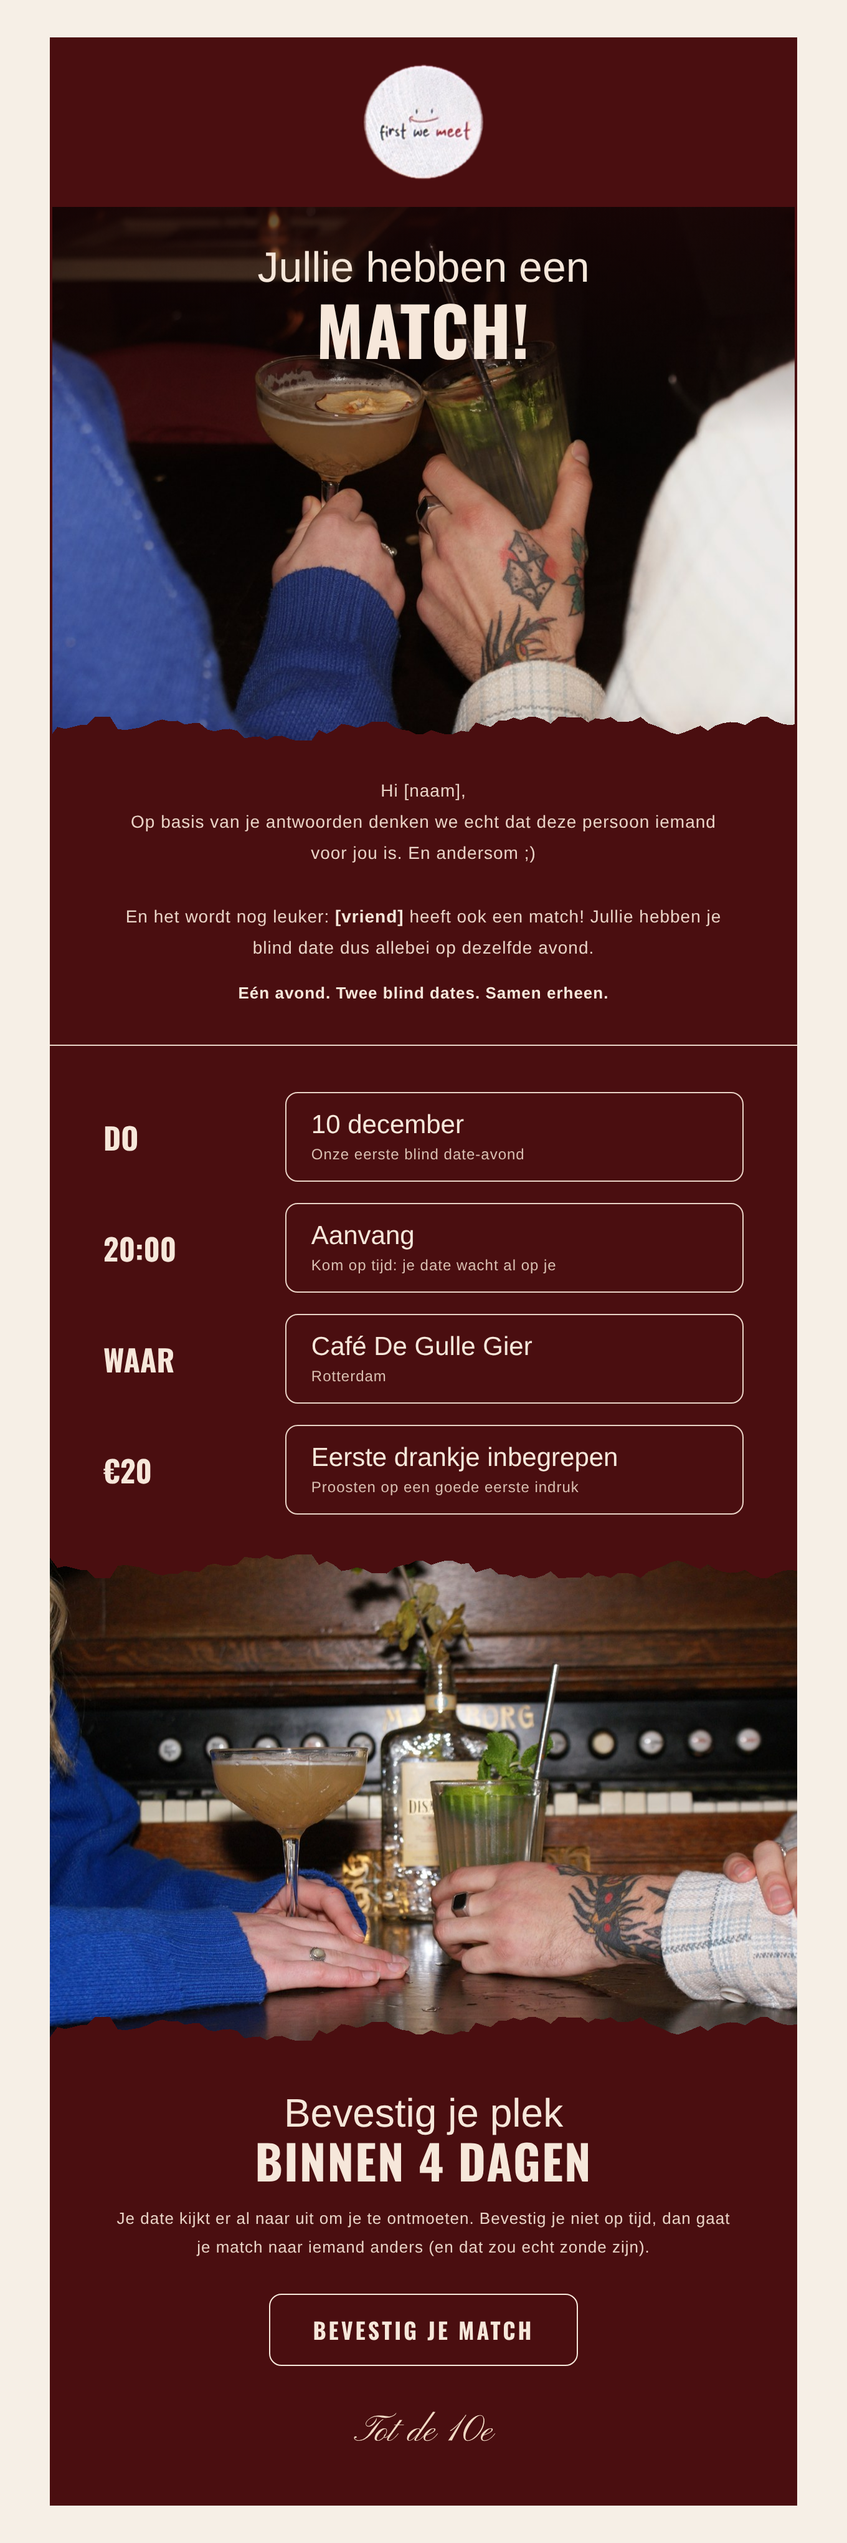
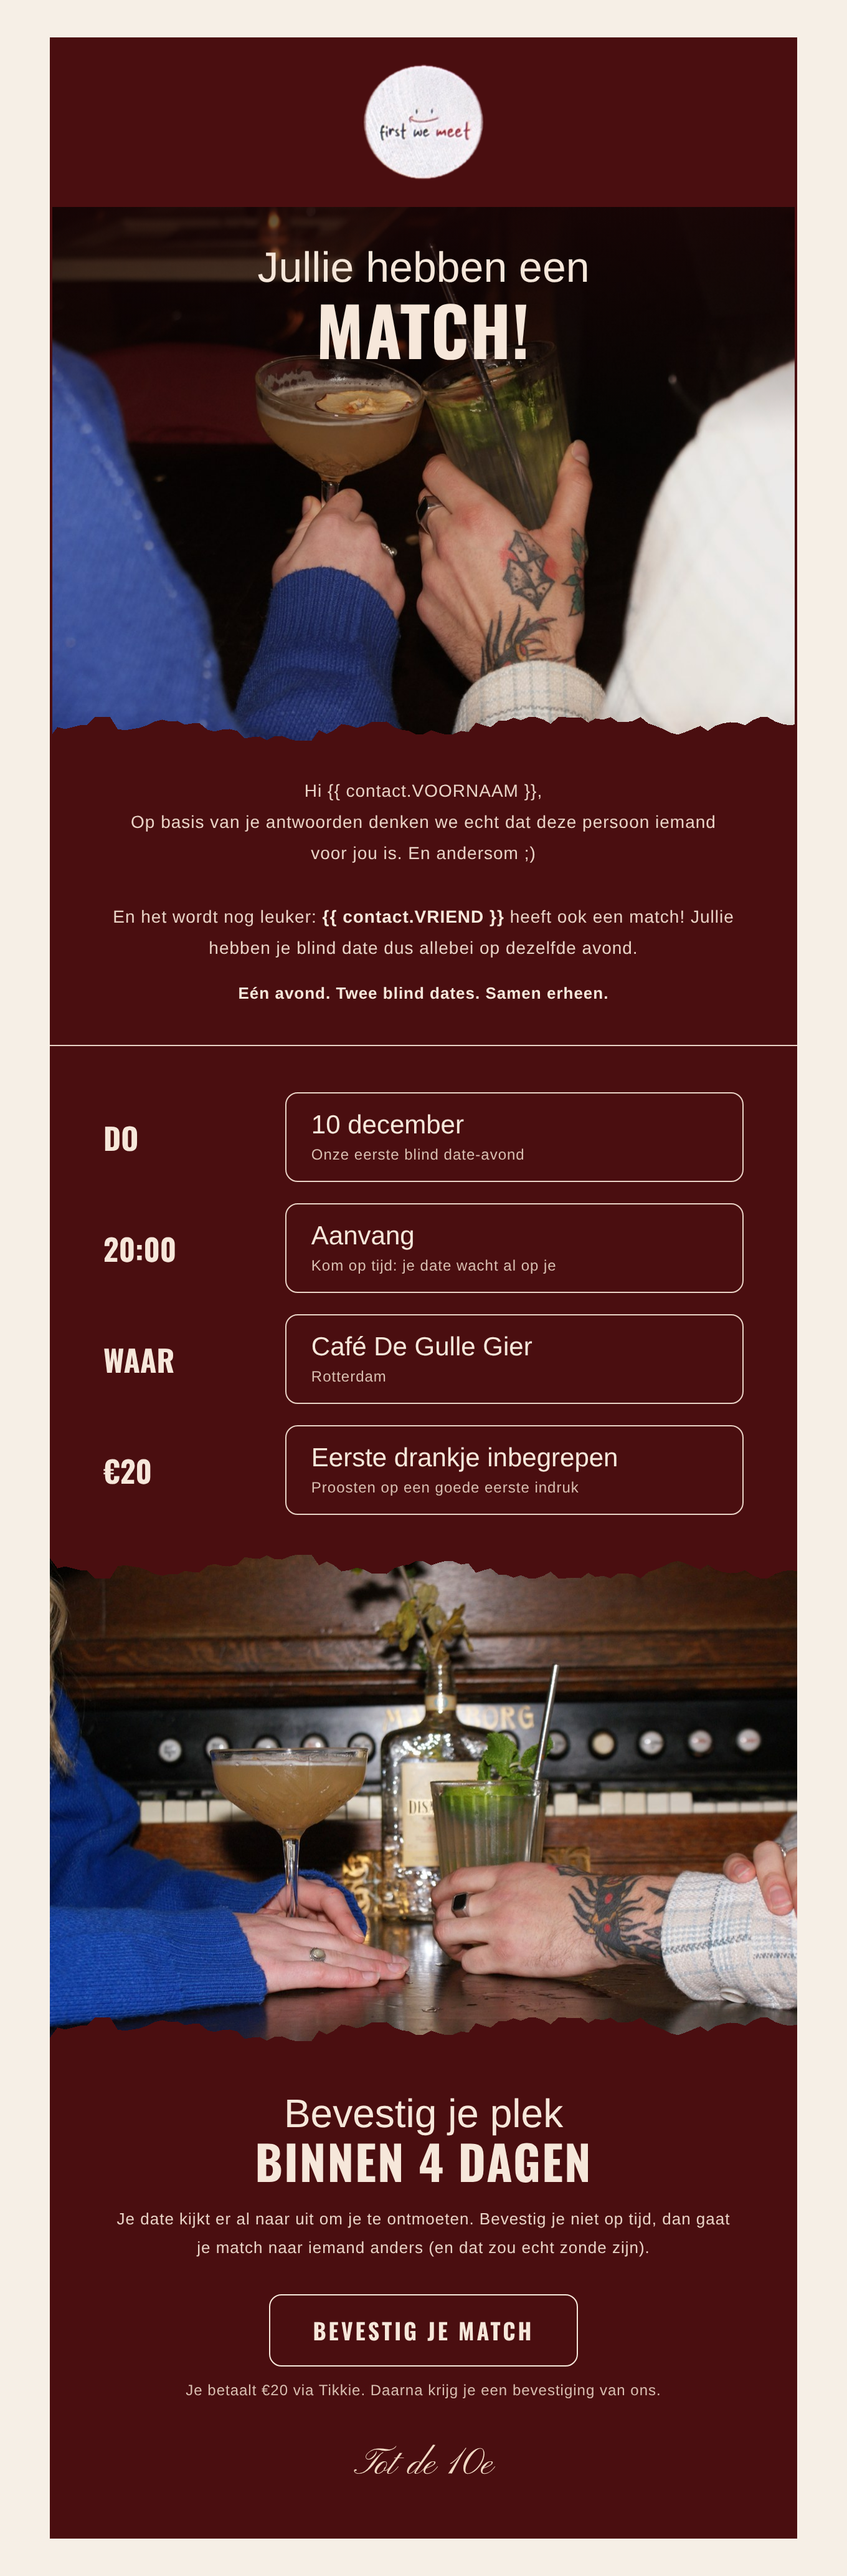
Match emails: Tikkie link per contact, confirmation email, Brevo setup guide
Claude-Session: https://claude.ai/code/session_015pbpmfourf5XfLzACnZpS7

diff --git a/marketing/mails/match-bordeaux/bevestiging-mail.html b/marketing/mails/match-bordeaux/bevestiging-mail.html
@@ -1,0 +1,27 @@
+<!doctype html><html lang="nl"><head><meta charset="utf-8"><meta name="viewport" content="width=device-width,initial-scale=1"><title>Je plek staat vast</title><link href="https://fonts.googleapis.com/css2?family=Inter+Tight:wght@500;800&family=Pinyon+Script&family=Oswald:wght@700&display=swap" rel="stylesheet"></head>
+<body style="margin:0;padding:0;background:#f6efe6;"><div style="display:none;max-height:0;overflow:hidden;">Betaling ontvangen. Tot donderdag 10 december!</div>
+<table role="presentation" width="100%" cellpadding="0" cellspacing="0" style="background:#f6efe6;"><tr><td align="center" style="padding:30px 10px;">
+<table role="presentation" width="600" cellpadding="0" cellspacing="0" style="max-width:600px;width:100%;"><tr><td align="center" style="background:#4a0e10;padding:20px 0 18px;"><img src="logo.png" width="96" height="96" alt="First We Meet" style="display:block;margin:0 auto;border:0;border-radius:50%;"></td></tr>
+<tr><td style="background:#4a0e10;">
+ <table width="100%" role="presentation"><tr><td height="402" valign="top" background="cocktails-heel.jpg" style="background:linear-gradient(180deg,rgba(30,6,7,.7) 0%,rgba(30,6,7,0) 42%),url('cocktails-heel.jpg') center/100% 100% no-repeat;padding:30px 0 0;text-align:center;">
+  <div style="font-family:Helvetica,Arial,sans-serif;font-size:34px;color:#f6e7da;">Je plek staat</div>
+  <div style="font-family:Oswald,'Arial Narrow',Arial,sans-serif;font-weight:700;font-size:54px;letter-spacing:1px;color:#f6e7da;line-height:1;margin-top:2px;">VAST!</div></td></tr></table>
+ <img src="torn.png" width="600" alt="" style="display:block;width:100%;margin-top:-30px;position:relative;">
+</td></tr>
+<tr><td style="background:#4a0e10;padding:22px 50px 34px;text-align:center;">
+ <div style="font-family:Helvetica,Arial,sans-serif;font-size:14px;letter-spacing:.5px;line-height:1.8;color:#e9d3c6;">Hi {{ contact.VOORNAAM }},<br>We hebben je betaling ontvangen. Je bent erbij!<br>Je date weet nog steeds niet wie jij bent, en dat houden we lekker zo.</div>
+ <div style="font-family:Helvetica,Arial,sans-serif;font-size:13px;letter-spacing:.5px;font-weight:bold;color:#f6e7da;margin-top:16px;">Zet hem alvast in je agenda.</div>
+</td></tr>
+<tr><td style="background:#4a0e10;border-top:1.5px solid #e9d3c6;padding:34px 40px 10px;">
+ <table width="100%" role="presentation">
+ <tr><td width="28%" style="font-family:Oswald,'Arial Narrow',Arial,sans-serif;font-weight:700;font-size:24px;color:#f6e7da;padding-bottom:14px;">DO</td><td style="padding-bottom:14px;"><div style="border:1.5px solid #e9d3c6;border-radius:10px;padding:14px 20px;"><div style="font-family:Helvetica,Arial,sans-serif;font-size:21px;color:#f6e7da;">10 december</div><div style="font-family:Helvetica,Arial,sans-serif;font-size:12px;letter-spacing:.5px;color:#d9bfb1;margin-top:4px;">Onze eerste blind date-avond</div></div></td></tr><tr><td width="28%" style="font-family:Oswald,'Arial Narrow',Arial,sans-serif;font-weight:700;font-size:24px;color:#f6e7da;padding-bottom:14px;">20:00</td><td style="padding-bottom:14px;"><div style="border:1.5px solid #e9d3c6;border-radius:10px;padding:14px 20px;"><div style="font-family:Helvetica,Arial,sans-serif;font-size:21px;color:#f6e7da;">Aanvang</div><div style="font-family:Helvetica,Arial,sans-serif;font-size:12px;letter-spacing:.5px;color:#d9bfb1;margin-top:4px;">Kom op tijd: je date wacht op je</div></div></td></tr><tr><td width="28%" style="font-family:Oswald,'Arial Narrow',Arial,sans-serif;font-weight:700;font-size:24px;color:#f6e7da;padding-bottom:14px;">WAAR</td><td style="padding-bottom:14px;"><div style="border:1.5px solid #e9d3c6;border-radius:10px;padding:14px 20px;"><div style="font-family:Helvetica,Arial,sans-serif;font-size:21px;color:#f6e7da;">Café De Gulle Gier</div><div style="font-family:Helvetica,Arial,sans-serif;font-size:12px;letter-spacing:.5px;color:#d9bfb1;margin-top:4px;">Rotterdam</div></div></td></tr><tr><td width="28%" style="font-family:Oswald,'Arial Narrow',Arial,sans-serif;font-weight:700;font-size:24px;color:#f6e7da;padding-bottom:14px;">€20</td><td style="padding-bottom:14px;"><div style="border:1.5px solid #e9d3c6;border-radius:10px;padding:14px 20px;"><div style="font-family:Helvetica,Arial,sans-serif;font-size:21px;color:#f6e7da;">Eerste drankje inbegrepen</div><div style="font-family:Helvetica,Arial,sans-serif;font-size:12px;letter-spacing:.5px;color:#d9bfb1;margin-top:4px;">Proosten op een goede eerste indruk</div></div></td></tr>
+ </table></td></tr>
+<tr><td style="background:#4a0e10;padding:0;"><img src="piano.jpg" width="600" alt="Twee cocktails op de piano" style="display:block;width:100%;">
+ <img src="torn-top.png" width="600" alt="" style="display:block;width:100%;margin-top:-402px;position:relative;">
+ <img src="torn.png" width="600" alt="" style="display:block;width:100%;margin-top:342px;position:relative;"></td></tr>
+<tr><td style="background:#4a0e10;padding:34px 50px 40px;text-align:center;">
+ <div style="font-family:Helvetica,Arial,sans-serif;font-size:32px;color:#f6e7da;">Tot snel bij</div>
+ <div style="font-family:Oswald,'Arial Narrow',Arial,sans-serif;font-weight:700;font-size:38px;letter-spacing:1px;color:#f6e7da;line-height:1.05;">DE GULLE GIER</div>
+ <div style="font-family:Helvetica,Arial,sans-serif;font-size:13px;letter-spacing:.5px;line-height:1.8;color:#e9d3c6;margin-top:14px;">Meld je bij binnenkomst bij ons, dan brengen we je naar je tafel. Je eerste drankje staat klaar.<br><br>Vragen of kun je toch niet? Antwoord gewoon op deze mail.</div>
+ <div style="font-family:'Pinyon Script',Georgia,serif;font-size:30px;color:#f1d9c4;margin-top:34px;">Tot de 10e</div>
+</td></tr></table></td></tr></table></body></html>

diff --git a/marketing/mails/match-bordeaux/match-mail-samen.html b/marketing/mails/match-bordeaux/match-mail-samen.html
@@ -1,8 +1,5 @@
-<!doctype html><html lang="nl"><head><meta charset="utf-8"><meta name="viewport" content="width=device-width,initial-scale=1"><title>Het is een match</title><link href="https://fonts.googleapis.com/css2?family=Inter+Tight:wght@500;800&family=Pinyon+Script&family=Oswald:wght@700&display=swap" rel="stylesheet"><style>@font-face{font-family:'Inter Tight';src:url(file:///tmp/claude-0/-home-user-firstwe-meet/dffc676d-e549-59db-af63-879ca39c5ba4/scratchpad/mail/insp/node_modules/@fontsource/inter-tight/files/inter-tight-latin-800-normal.woff2);font-weight:800}
-@font-face{font-family:'Inter Tight';src:url(file:///tmp/claude-0/-home-user-firstwe-meet/dffc676d-e549-59db-af63-879ca39c5ba4/scratchpad/mail/insp/node_modules/@fontsource/inter-tight/files/inter-tight-latin-500-normal.woff2);font-weight:500}
-@font-face{font-family:'Pinyon Script';src:url(file:///tmp/claude-0/-home-user-firstwe-meet/dffc676d-e549-59db-af63-879ca39c5ba4/scratchpad/mail/insp/node_modules/@fontsource/pinyon-script/files/pinyon-script-latin-400-normal.woff2)}
-@font-face{font-family:Oswald;src:url(file:///tmp/claude-0/-home-user-firstwe-meet/dffc676d-e549-59db-af63-879ca39c5ba4/scratchpad/mail/insp/node_modules/@fontsource/oswald/files/oswald-latin-700-normal.woff2);font-weight:700}</style></head>
-<body style="margin:0;padding:0;background:#f6efe6;"><div style="display:none;max-height:0;overflow:hidden;">Jij én [vriend] hebben een match.</div>
+<!doctype html><html lang="nl"><head><meta charset="utf-8"><meta name="viewport" content="width=device-width,initial-scale=1"><title>Het is een match</title><link href="https://fonts.googleapis.com/css2?family=Inter+Tight:wght@500;800&family=Pinyon+Script&family=Oswald:wght@700&display=swap" rel="stylesheet"></head>
+<body style="margin:0;padding:0;background:#f6efe6;"><div style="display:none;max-height:0;overflow:hidden;">Jij én {{ contact.VRIEND }} hebben een match.</div>
 <table role="presentation" width="100%" cellpadding="0" cellspacing="0" style="background:#f6efe6;"><tr><td align="center" style="padding:30px 10px;">
 <table role="presentation" width="600" cellpadding="0" cellspacing="0" style="max-width:600px;width:100%;"><tr><td align="center" style="background:#4a0e10;padding:20px 0 18px;"><img src="logo.png" width="96" height="96" alt="First We Meet" style="display:block;margin:0 auto;border:0;border-radius:50%;"></td></tr>
 <tr><td style="background:#4a0e10;">
@@ -12,7 +9,7 @@
  <img src="torn.png" width="600" alt="" style="display:block;width:100%;margin-top:-30px;position:relative;">
 </td></tr>
 <tr><td style="background:#4a0e10;padding:22px 50px 34px;text-align:center;">
- <div style="font-family:Helvetica,Arial,sans-serif;font-size:14px;letter-spacing:.5px;line-height:1.8;color:#e9d3c6;">Hi [naam],<br>Op basis van je antwoorden denken we echt dat deze persoon iemand voor jou is. En andersom ;)<br><br>En het wordt nog leuker: <b style="color:#f6e7da;">[vriend]</b> heeft ook een match! Jullie hebben je blind date dus allebei op dezelfde avond.</div>
+ <div style="font-family:Helvetica,Arial,sans-serif;font-size:14px;letter-spacing:.5px;line-height:1.8;color:#e9d3c6;">Hi {{ contact.VOORNAAM }},<br>Op basis van je antwoorden denken we echt dat deze persoon iemand voor jou is. En andersom ;)<br><br>En het wordt nog leuker: <b style="color:#f6e7da;">{{ contact.VRIEND }}</b> heeft ook een match! Jullie hebben je blind date dus allebei op dezelfde avond.</div>
  <div style="font-family:Helvetica,Arial,sans-serif;font-size:13px;letter-spacing:.5px;font-weight:bold;color:#f6e7da;margin-top:16px;">Eén avond. Twee blind dates. Samen erheen.</div>
 </td></tr>
 <tr><td style="background:#4a0e10;border-top:1.5px solid #e9d3c6;padding:34px 40px 10px;">
@@ -26,6 +23,7 @@
  <div style="font-family:Helvetica,Arial,sans-serif;font-size:32px;color:#f6e7da;">Bevestig je plek</div>
  <div style="font-family:Oswald,'Arial Narrow',Arial,sans-serif;font-weight:700;font-size:38px;letter-spacing:1px;color:#f6e7da;line-height:1.05;">BINNEN 4 DAGEN</div>
  <div style="font-family:Helvetica,Arial,sans-serif;font-size:13px;letter-spacing:.5px;line-height:1.8;color:#e9d3c6;margin-top:14px;">Je date kijkt er al naar uit om je te ontmoeten. Bevestig je niet op tijd, dan gaat je match naar iemand anders (en dat zou echt zonde zijn).</div>
- <div style="margin-top:26px;"><a href="https://tally.so/r/GeRXOp?naam={{ contact.VOORNAAM }}&email={{ contact.EMAIL }}" style="display:inline-block;border:1.5px solid #f6e7da;border-radius:10px;color:#f6e7da;font-family:Oswald,'Arial Narrow',Arial,sans-serif;font-weight:700;font-size:18px;letter-spacing:2px;text-decoration:none;padding:15px 34px;">BEVESTIG JE MATCH</a></div>
+ <div style="margin-top:26px;"><a href="{{ contact.TIKKIE }}" style="display:inline-block;border:1.5px solid #f6e7da;border-radius:10px;color:#f6e7da;font-family:Oswald,'Arial Narrow',Arial,sans-serif;font-weight:700;font-size:18px;letter-spacing:2px;text-decoration:none;padding:15px 34px;">BEVESTIG JE MATCH</a></div>
+ <div style="font-family:Helvetica,Arial,sans-serif;font-size:12px;letter-spacing:.5px;color:#d9bfb1;margin-top:12px;">Je betaalt €20 via Tikkie. Daarna krijg je een bevestiging van ons.</div>
  <div style="font-family:'Pinyon Script',Georgia,serif;font-size:30px;color:#f1d9c4;margin-top:34px;">Tot de 10e</div>
 </td></tr></table></td></tr></table></body></html>

diff --git a/marketing/mails/match-bordeaux/match-mail.html b/marketing/mails/match-bordeaux/match-mail.html
@@ -1,7 +1,4 @@
-<!doctype html><html lang="nl"><head><meta charset="utf-8"><meta name="viewport" content="width=device-width,initial-scale=1"><title>Het is een match</title><link href="https://fonts.googleapis.com/css2?family=Inter+Tight:wght@500;800&family=Pinyon+Script&family=Oswald:wght@700&display=swap" rel="stylesheet"><style>@font-face{font-family:'Inter Tight';src:url(file:///tmp/claude-0/-home-user-firstwe-meet/dffc676d-e549-59db-af63-879ca39c5ba4/scratchpad/mail/insp/node_modules/@fontsource/inter-tight/files/inter-tight-latin-800-normal.woff2);font-weight:800}
-@font-face{font-family:'Inter Tight';src:url(file:///tmp/claude-0/-home-user-firstwe-meet/dffc676d-e549-59db-af63-879ca39c5ba4/scratchpad/mail/insp/node_modules/@fontsource/inter-tight/files/inter-tight-latin-500-normal.woff2);font-weight:500}
-@font-face{font-family:'Pinyon Script';src:url(file:///tmp/claude-0/-home-user-firstwe-meet/dffc676d-e549-59db-af63-879ca39c5ba4/scratchpad/mail/insp/node_modules/@fontsource/pinyon-script/files/pinyon-script-latin-400-normal.woff2)}
-@font-face{font-family:Oswald;src:url(file:///tmp/claude-0/-home-user-firstwe-meet/dffc676d-e549-59db-af63-879ca39c5ba4/scratchpad/mail/insp/node_modules/@fontsource/oswald/files/oswald-latin-700-normal.woff2);font-weight:700}</style></head>
+<!doctype html><html lang="nl"><head><meta charset="utf-8"><meta name="viewport" content="width=device-width,initial-scale=1"><title>Het is een match</title><link href="https://fonts.googleapis.com/css2?family=Inter+Tight:wght@500;800&family=Pinyon+Script&family=Oswald:wght@700&display=swap" rel="stylesheet"></head>
 <body style="margin:0;padding:0;background:#f6efe6;"><div style="display:none;max-height:0;overflow:hidden;">Spoiler: we zeggen niet wie het is.</div>
 <table role="presentation" width="100%" cellpadding="0" cellspacing="0" style="background:#f6efe6;"><tr><td align="center" style="padding:30px 10px;">
 <table role="presentation" width="600" cellpadding="0" cellspacing="0" style="max-width:600px;width:100%;"><tr><td align="center" style="background:#4a0e10;padding:20px 0 18px;"><img src="logo.png" width="96" height="96" alt="First We Meet" style="display:block;margin:0 auto;border:0;border-radius:50%;"></td></tr>
@@ -12,7 +9,7 @@
  <img src="torn.png" width="600" alt="" style="display:block;width:100%;margin-top:-30px;position:relative;">
 </td></tr>
 <tr><td style="background:#4a0e10;padding:22px 50px 34px;text-align:center;">
- <div style="font-family:Helvetica,Arial,sans-serif;font-size:14px;letter-spacing:.5px;line-height:1.8;color:#e9d3c6;">Hi [naam],<br>Op basis van je antwoorden denken we echt dat deze persoon iemand voor jou is. En andersom ;)</div>
+ <div style="font-family:Helvetica,Arial,sans-serif;font-size:14px;letter-spacing:.5px;line-height:1.8;color:#e9d3c6;">Hi {{ contact.VOORNAAM }},<br>Op basis van je antwoorden denken we echt dat deze persoon iemand voor jou is. En andersom ;)</div>
  <div style="font-family:Helvetica,Arial,sans-serif;font-size:13px;letter-spacing:.5px;font-weight:bold;color:#f6e7da;margin-top:16px;">Eén avond. Eén blind date.</div>
 </td></tr>
 <tr><td style="background:#4a0e10;border-top:1.5px solid #e9d3c6;padding:34px 40px 10px;">
@@ -26,6 +23,7 @@
  <div style="font-family:Helvetica,Arial,sans-serif;font-size:32px;color:#f6e7da;">Bevestig je plek</div>
  <div style="font-family:Oswald,'Arial Narrow',Arial,sans-serif;font-weight:700;font-size:38px;letter-spacing:1px;color:#f6e7da;line-height:1.05;">BINNEN 4 DAGEN</div>
  <div style="font-family:Helvetica,Arial,sans-serif;font-size:13px;letter-spacing:.5px;line-height:1.8;color:#e9d3c6;margin-top:14px;">Je date kijkt er al naar uit om je te ontmoeten. Bevestig je niet op tijd, dan gaat je match naar iemand anders (en dat zou echt zonde zijn).</div>
- <div style="margin-top:26px;"><a href="https://tally.so/r/GeRXOp?naam={{ contact.VOORNAAM }}&email={{ contact.EMAIL }}" style="display:inline-block;border:1.5px solid #f6e7da;border-radius:10px;color:#f6e7da;font-family:Oswald,'Arial Narrow',Arial,sans-serif;font-weight:700;font-size:18px;letter-spacing:2px;text-decoration:none;padding:15px 34px;">BEVESTIG JE MATCH</a></div>
+ <div style="margin-top:26px;"><a href="{{ contact.TIKKIE }}" style="display:inline-block;border:1.5px solid #f6e7da;border-radius:10px;color:#f6e7da;font-family:Oswald,'Arial Narrow',Arial,sans-serif;font-weight:700;font-size:18px;letter-spacing:2px;text-decoration:none;padding:15px 34px;">BEVESTIG JE MATCH</a></div>
+ <div style="font-family:Helvetica,Arial,sans-serif;font-size:12px;letter-spacing:.5px;color:#d9bfb1;margin-top:12px;">Je betaalt €20 via Tikkie. Daarna krijg je een bevestiging van ons.</div>
  <div style="font-family:'Pinyon Script',Georgia,serif;font-size:30px;color:#f1d9c4;margin-top:34px;">Tot de 10e</div>
 </td></tr></table></td></tr></table></body></html>

diff --git a/marketing/mails/match-bordeaux/README.md b/marketing/mails/match-bordeaux/README.md
@@ -1,0 +1,31 @@
+# Match- en bevestigingsmails (Brevo + Tikkie)
+
+| Bestand | Voor wie |
+|---|---|
+| `match-mail.html` | Iemand die zich alleen heeft aangemeld en een match heeft |
+| `match-mail-samen.html` | Iemand die zich samen met een vriend(in) heeft aangemeld |
+| `bevestiging-mail.html` | Iedereen die betaald heeft |
+
+## Contacten in Brevo
+Kolommen (attributen) per contact:
+
+| Attribuut | Voorbeeld |
+|---|---|
+| EMAIL | sanne@voorbeeld.nl |
+| VOORNAAM | Sanne |
+| VRIEND | Lisa (alleen voor samen aangemeld) |
+| TIKKIE | https://tikkie.me/pay/... (eigen Tikkie van €20 per persoon) |
+
+Lijsten: **Match – alleen**, **Match – samen**, **Betaald**.
+
+## Foto's
+Upload `logo.png`, `cocktails-heel.jpg`, `piano.jpg`, `torn.png` en `torn-top.png` in Brevo
+en vervang die bestandsnamen in de HTML door de links die Brevo geeft.
+
+## Automatische bevestiging
+1. Brevo → Automations → nieuwe automation.
+2. Trigger: **contact toegevoegd aan lijst "Betaald"**.
+3. Actie: **e-mail sturen** → `bevestiging-mail.html`.
+
+Zie je in Tikkie dat iemand betaald heeft, zet die persoon dan op de lijst "Betaald".
+Brevo stuurt de bevestiging dan vanzelf.
